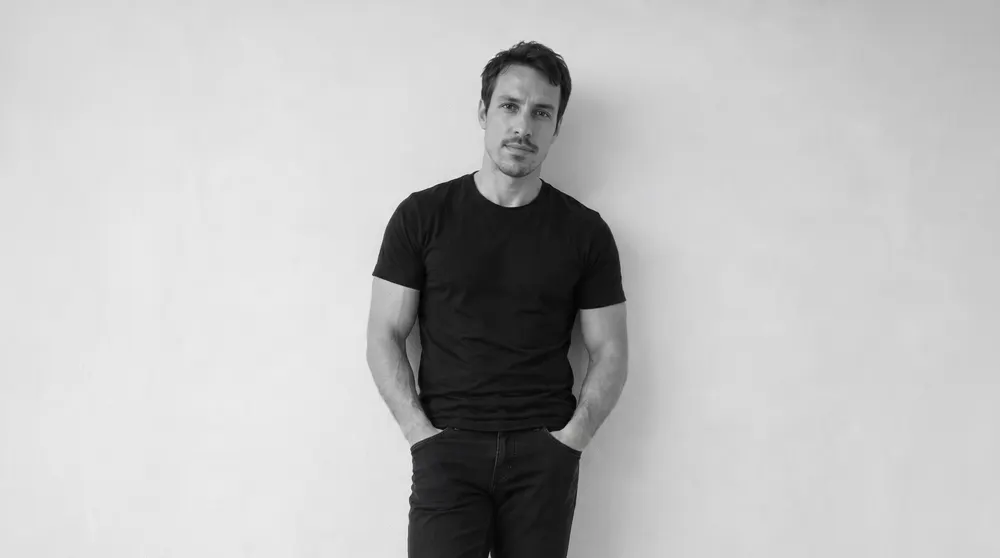
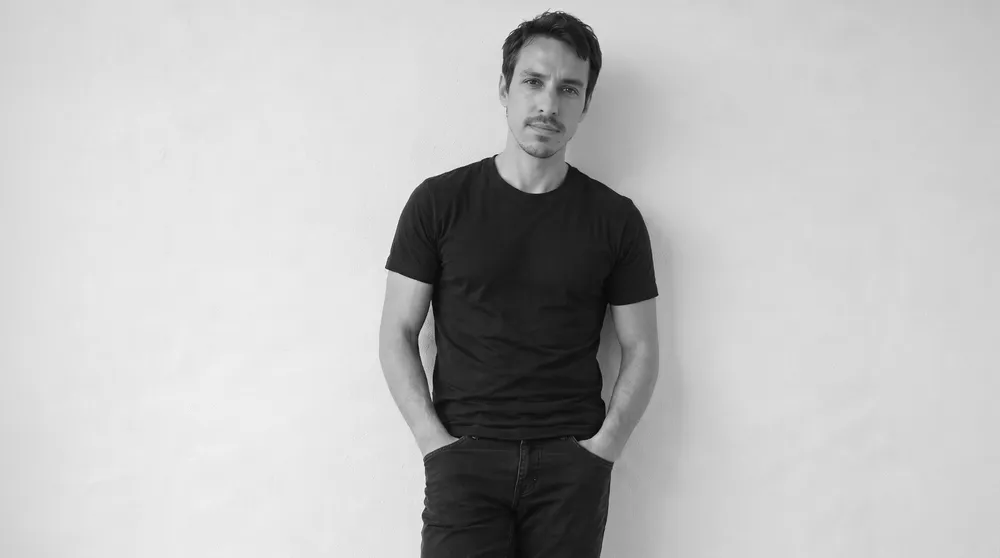
Hero: new wall portrait (desktop sizes and mobile crop)

Changed region(s): [[0.341, 0.0, 0.682, 1.0]]

diff --git a/HANDOFF.md b/HANDOFF.md
@@ -76,6 +76,8 @@ All applied and committed. Copy changes override the locked copy in BRIEF.md.
 - Footer right column: newsletter form like The Row: label "Rester informé", email field with underline and `>` submit, consent checkbox "J’accepte la politique de confidentialité." (link to `/privacy-policy/`). Both fields required, inline errors, goes through `submitLead('newsletter')`. Success sentence `[TODO: copy]`.
 - The philosophy statement ("Le prix est un signal…" and "Lorsque l’histoire…") was removed from the footer at Julien's request.
 
+Hero photo: new wall portrait (Oct 23), B&W. Source `site/img/hero-source.jpg`; desktop `hero-1000/1600/2000.webp`; mobile crop `hero-m-480/720.webp` (720 × 1116 crop starting at x = 710).
+
 Contact photo: Julien's chosen image, a double scull from above (Pexels, Elias Tigiser), B&W, `site/img/rowing-600/1000/1500.webp`. The globe "FR" is a button with no language menu yet (only French exists).
 
 ## 8. Open TODOs (from BRIEF.md, still waiting on Julien)
